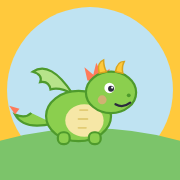
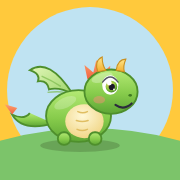
Illustrations façon film d'animation : lumière, dégradés, grands yeux
Claude-Session: https://claude.ai/code/session_014ppiBfhQJmdojky3Cr5pnc

Changed region(s): [[0.0278, 0.3056, 0.7778, 0.8611]]

diff --git a/index.html b/index.html
@@ -88,88 +88,145 @@ h1{font-family:var(--display);font-weight:700;font-size:clamp(2rem,6vw,3.2rem);l
 /* ---------- Dessins (formes simples, personnages originaux) ---------- */
 const C={herbe:'#7CC46A',herbe2:'#5BA552',pist:'#8BCF4E',pistF:'#4E9A2C',ventre:'#F6E7A6',sol:'#FFC93C',cor:'#FF7A59',enc:'#2B2A3D',blanc:'#fff'};
 
+function teinte(h,a){const n=parseInt(h.slice(1),16);let r=n>>16,g=n>>8&255,b=n&255;const t=a<0?0:255,p=Math.abs(a);r=Math.round(r+(t-r)*p);g=Math.round(g+(t-g)*p);b=Math.round(b+(t-b)*p);return '#'+((1<<24)+(r<<16)+(g<<8)+b).toString(16).slice(1);}
+function melange(h1,h2,t){const a=parseInt(h1.slice(1),16),b=parseInt(h2.slice(1),16);const f=s=>[(s>>16),(s>>8&255),(s&255)];const A=f(a),B=f(b);return '#'+A.map((v,i)=>Math.round(v+(B[i]-v)*t).toString(16).padStart(2,'0')).join('');}
+function oeil(cx,cy,r,{iris='gIris',cils=false}={}){
+  return `<ellipse cx="${cx}" cy="${cy}" rx="${r}" ry="${(r*1.2).toFixed(1)}" fill="#fff"/>
+  <circle cx="${(cx+r*.15).toFixed(1)}" cy="${(cy+r*.2).toFixed(1)}" r="${(r*.72).toFixed(1)}" fill="url(#${iris})"/>
+  <circle cx="${(cx+r*.18).toFixed(1)}" cy="${(cy+r*.24).toFixed(1)}" r="${(r*.38).toFixed(1)}" fill="#1B1626"/>
+  <circle cx="${(cx-r*.12).toFixed(1)}" cy="${(cy-r*.25).toFixed(1)}" r="${(r*.3).toFixed(1)}" fill="#fff"/>
+  <circle cx="${(cx+r*.45).toFixed(1)}" cy="${(cy+r*.55).toFixed(1)}" r="${(r*.13).toFixed(1)}" fill="#fff" opacity=".85"/>
+  <path d="M${(cx-r*.95).toFixed(1)} ${(cy-r*.35).toFixed(1)} Q${cx} ${(cy-r*1.62).toFixed(1)} ${(cx+r*.95).toFixed(1)} ${(cy-r*.35).toFixed(1)}" stroke="#2B2A3D" stroke-width="${(r*.16).toFixed(1)}" fill="none" stroke-linecap="round" opacity=".8"/>
+  ${cils?`<path d="M${cx+r*.9} ${cy-r*.75} l${r*.45} ${-r*.35} M${cx+r*.55} ${cy-r*1.05} l${r*.3} ${-r*.45}" stroke="#2B2A3D" stroke-width="${(r*.22).toFixed(1)}" stroke-linecap="round"/>`:''}`;
+}
+const oeilFerme=(cx,cy,r)=>`<path d="M${cx-r} ${cy} q${r} ${r*.9} ${2*r} 0" stroke="#2B2A3D" stroke-width="${(r*.3).toFixed(1)}" fill="none" stroke-linecap="round"/><path d="M${cx-r*.7} ${cy+r*.45} l-${r*.3} ${r*.35} M${cx} ${cy+r*.65} v${r*.4} M${cx+r*.7} ${cy+r*.45} l${r*.3} ${r*.35}" stroke="#2B2A3D" stroke-width="${(r*.2).toFixed(1)}" stroke-linecap="round"/>`;
+const ombreSol=(cx,cy,rx)=>`<ellipse cx="${cx}" cy="${cy}" rx="${rx}" ry="${(rx*.16).toFixed(1)}" fill="#1E2A10" opacity=".2"/>`;
 function dragon(x,y,s=1,{yeux='ouverts',flamme=false,ailes=true,hoquet=false}={}){
-  const oeil = yeux==='fermes'
-    ? `<path d="M30 -38 q6 5 12 0" stroke="${C.enc}" stroke-width="3" fill="none" stroke-linecap="round"/>`
-    : `<circle cx="36" cy="-38" r="7" fill="${C.blanc}"/><circle cx="38" cy="-37" r="4" fill="${C.enc}"/><circle cx="39.5" cy="-38.5" r="1.4" fill="${C.blanc}"/>`;
-  const feu = flamme ? `<g transform="translate(66,-22)"><path d="M0 0 q18 -14 34 -2 q-8 4 -2 8 q-16 8 -32 -6z" fill="${C.cor}"/><path d="M4 0 q10 -7 20 0 q-10 6 -20 0z" fill="${C.sol}"/></g>`:'';
-  const hic = hoquet ? `<g transform="translate(70,-30)"><circle r="4" fill="${C.sol}"/><circle cx="12" cy="-8" r="3" fill="${C.cor}"/><circle cx="6" cy="-18" r="2.5" fill="${C.sol}"/></g>`:'';
+  const o = yeux==='fermes' ? oeilFerme(37,-40,10) : oeil(37,-42,11,{iris:'gIrisD'});
+  const feu = flamme ? `<g transform="translate(70,-22)"><path d="M0 0 q20 -18 40 -4 q-8 5 -2 10 q-20 10 -38 -6z" fill="url(#gFeu)"/><path d="M4 0 q12 -8 22 0 q-12 6 -22 0z" fill="#FFF3B0"/><circle cx="30" cy="-2" r="16" fill="url(#gHalo)"/></g>`:'';
+  const hic = hoquet ? `<g transform="translate(72,-32)"><circle r="5" fill="url(#gHalo)"/><circle r="3.5" fill="#FFE27A"/><circle cx="12" cy="-9" r="3" fill="#FF8A5C"/><circle cx="6" cy="-20" r="2.5" fill="#FFE27A"/></g>`:'';
   return `<g class="touche dragon" data-son="dragon" transform="translate(${x},${y}) scale(${s})">
+    ${ombreSol(-4,40,54)}
     <g class="corps">
-    <path d="M-40 10 q-40 10 -52 -12 q14 6 22 -2" fill="${C.pist}" stroke="${C.pistF}" stroke-width="3"/>
-    <path d="M-92 -2 l-8 -12 l14 4z" fill="${C.cor}"/>
-    ${ailes?`<path d="M-14 -30 q-30 -46 -54 -30 q14 4 10 14 q12 -2 14 10 q12 -4 30 6z" fill="#B6E38A" stroke="${C.pistF}" stroke-width="3"/>`:''}
-    <ellipse cx="-6" cy="0" rx="44" ry="34" fill="${C.pist}" stroke="${C.pistF}" stroke-width="3"/>
-    <ellipse cx="2" cy="6" rx="26" ry="22" fill="${C.ventre}"/>
-    <path d="M-6 16 h10 M-6 4 h12 M-4 -8 h10" stroke="#E2CC74" stroke-width="2.5" stroke-linecap="round"/>
-    <rect x="-34" y="22" width="16" height="16" rx="7" fill="${C.pist}" stroke="${C.pistF}" stroke-width="3"/>
-    <rect x="8" y="22" width="16" height="16" rx="7" fill="${C.pist}" stroke="${C.pistF}" stroke-width="3"/>
-    <path d="M6 -48 l-4 -18 l12 10 l4 -16 l8 16 l10 -8 l-2 18z" fill="${C.cor}"/>
-    <ellipse cx="38" cy="-32" rx="34" ry="28" fill="${C.pist}" stroke="${C.pistF}" stroke-width="3"/>
-    <path d="M22 -58 q-4 -14 6 -18 q0 10 4 16z" fill="${C.sol}" stroke="#D9A41E" stroke-width="2"/>
-    <path d="M44 -60 q2 -14 12 -14 q-4 8 -2 16z" fill="${C.sol}" stroke="#D9A41E" stroke-width="2"/>
-    ${oeil}
-    <circle cx="62" cy="-28" r="2.6" fill="${C.pistF}"/>
-    <path d="M44 -16 q10 6 20 -2" stroke="${C.enc}" stroke-width="3" fill="none" stroke-linecap="round"/>
-    <circle cx="26" cy="-22" r="6" fill="#FF9F8A" opacity=".6"/>
+    <path d="M-40 10 q-42 12 -56 -12 q16 8 24 -2" fill="url(#gPist)" stroke="#4E8F2C" stroke-width="2.5"/>
+    <path d="M-96 -2 l-10 -14 l17 5z" fill="url(#gCrete)"/>
+    ${ailes?`<path d="M-14 -30 q-32 -50 -58 -32 q15 5 11 15 q13 -2 15 11 q13 -4 32 6z" fill="url(#gAile)" stroke="#4E8F2C" stroke-width="2.5"/><path d="M-30 -40 q-12 -8 -26 -14 M-24 -32 q-10 -2 -24 0" stroke="#7DBB4E" stroke-width="2" fill="none" opacity=".7"/>`:''}
+    <ellipse cx="-6" cy="0" rx="44" ry="35" fill="url(#gPist)" stroke="#4E8F2C" stroke-width="2.5"/>
+    <ellipse cx="2" cy="7" rx="26" ry="23" fill="url(#gVentre)"/>
+    <path d="M-8 18 q7 3 14 0 M-9 6 q8 3 16 0 M-7 -6 q7 3 13 0" stroke="#E0BE62" stroke-width="2" fill="none" stroke-linecap="round"/>
+    <ellipse cx="-24" cy="-18" rx="16" ry="7" fill="#fff" opacity=".22" transform="rotate(-25 -24 -18)"/>
+    <rect x="-34" y="22" width="17" height="17" rx="8" fill="url(#gPist)" stroke="#4E8F2C" stroke-width="2.5"/>
+    <rect x="8" y="22" width="17" height="17" rx="8" fill="url(#gPist)" stroke="#4E8F2C" stroke-width="2.5"/>
+    <path d="M6 -50 l-4 -19 l12 10 l4 -17 l9 17 l10 -9 l-2 19z" fill="url(#gCrete)"/>
+    <ellipse cx="38" cy="-33" rx="36" ry="30" fill="url(#gPist)" stroke="#4E8F2C" stroke-width="2.5"/>
+    <ellipse cx="26" cy="-52" rx="15" ry="6" fill="#fff" opacity=".28" transform="rotate(-18 26 -52)"/>
+    <path d="M20 -60 q-5 -15 6 -20 q0 11 5 18z" fill="url(#gCorne)" stroke="#C99021" stroke-width="1.5"/>
+    <path d="M45 -62 q2 -15 13 -15 q-4 9 -2 17z" fill="url(#gCorne)" stroke="#C99021" stroke-width="1.5"/>
+    ${o}
+    <ellipse cx="64" cy="-28" rx="2.4" ry="1.8" fill="#3F7A22"/>
+    <path d="M44 -15 q11 8 22 -2" stroke="#2B2A3D" stroke-width="2.8" fill="none" stroke-linecap="round"/>
+    <ellipse cx="22" cy="-22" rx="8" ry="5" fill="#FF8C7A" opacity=".45"/>
     </g>${feu}${hic}</g>`;
 }
 function chienne(x,y,s=1,{casque=false}={}){
   return `<g class="touche" data-son="ouaf" transform="translate(${x},${y}) scale(${s})">
-    <path d="M-30 4 q-18 -10 -20 -24" stroke="#C98A4B" stroke-width="7" fill="none" stroke-linecap="round"/>
-    <ellipse cx="0" cy="8" rx="34" ry="24" fill="#E6A866" stroke="#B87638" stroke-width="3"/>
-    <rect x="-24" y="20" width="12" height="18" rx="6" fill="#E6A866" stroke="#B87638" stroke-width="3"/>
-    <rect x="12" y="20" width="12" height="18" rx="6" fill="#E6A866" stroke="#B87638" stroke-width="3"/>
-    <circle cx="24" cy="-22" r="26" fill="#E6A866" stroke="#B87638" stroke-width="3"/>
-    <ellipse cx="38" cy="-14" rx="14" ry="10" fill="#FBE3C4"/>
-    <ellipse cx="48" cy="-18" rx="5" ry="4" fill="${C.enc}"/>
-    <path d="M4 -40 q-16 0 -12 26 q10 -4 14 -18z" fill="#9C5E2C"/>
-    <path d="M36 -44 q14 -8 18 6 q-8 2 -14 4z" fill="#9C5E2C"/>
-    <circle cx="28" cy="-28" r="4" fill="${C.enc}"/><circle cx="29.5" cy="-29.5" r="1.3" fill="#fff"/>
-    <path d="M38 -6 q4 8 10 2" stroke="${C.enc}" stroke-width="2.5" fill="none" stroke-linecap="round"/>
+    ${ombreSol(2,40,40)}
+    <path d="M-30 4 q-20 -10 -21 -26" stroke="url(#gChien)" stroke-width="8" fill="none" stroke-linecap="round"/>
+    <ellipse cx="0" cy="8" rx="34" ry="24" fill="url(#gChien)" stroke="#A9682F" stroke-width="2.5"/>
+    <ellipse cx="4" cy="14" rx="18" ry="12" fill="#FCE6C8" opacity=".9"/>
+    <rect x="-24" y="20" width="12" height="19" rx="6" fill="url(#gChien)" stroke="#A9682F" stroke-width="2.5"/>
+    <rect x="12" y="20" width="12" height="19" rx="6" fill="url(#gChien)" stroke="#A9682F" stroke-width="2.5"/>
+    <circle cx="24" cy="-22" r="27" fill="url(#gChien)" stroke="#A9682F" stroke-width="2.5"/>
+    <ellipse cx="14" cy="-38" rx="11" ry="5" fill="#fff" opacity=".25" transform="rotate(-20 14 -38)"/>
+    <ellipse cx="39" cy="-13" rx="15" ry="11" fill="#FCE6C8"/>
+    <ellipse cx="50" cy="-19" rx="5.5" ry="4.2" fill="#2B2A3D"/><ellipse cx="48.5" cy="-20.5" rx="1.8" ry="1.1" fill="#fff" opacity=".7"/>
+    <path d="M3 -42 q-18 0 -14 30 q11 -5 16 -20z" fill="#8A4F22"/>
+    <path d="M36 -46 q15 -9 20 7 q-9 2 -15 4z" fill="#8A4F22"/>
+    ${oeil(28,-29,6.5)}
+    <path d="M38 -5 q5 9 12 2" stroke="#2B2A3D" stroke-width="2.4" fill="none" stroke-linecap="round"/>
+    <path d="M42 -3 q2 6 5 1z" fill="#FF7A8A"/>
+    <ellipse cx="22" cy="-12" rx="6" ry="4" fill="#FF8C7A" opacity=".35"/>
     <path d="M12 -2 q12 6 24 0" stroke="#3E7BD6" stroke-width="6" fill="none" stroke-linecap="round"/>
-    <circle cx="24" cy="4" r="5" fill="${C.sol}" stroke="#D9A41E" stroke-width="2"/>
-    ${casque?`<path d="M2 -40 q20 -28 46 -6 z" fill="${C.cor}" stroke="#C9553A" stroke-width="2"/>`:''}
+    <circle cx="24" cy="4" r="5" fill="url(#gCorne)" stroke="#C99021" stroke-width="1.5"/>
+    ${casque?`<path d="M2 -42 q20 -30 48 -6 z" fill="url(#gFeu)" stroke="#C9553A" stroke-width="2"/><ellipse cx="22" cy="-52" rx="8" ry="3" fill="#fff" opacity=".4"/>`:''}
   </g>`;
 }
 function chaton(x,y,s=1){
   return `<g class="touche" data-son="miaou" transform="translate(${x},${y}) scale(${s})">
-    <path d="M14 6 q14 -4 12 -18" stroke="#9AA0AE" stroke-width="5" fill="none" stroke-linecap="round"/>
-    <ellipse cx="0" cy="8" rx="16" ry="12" fill="#C7CCD6" stroke="#8C92A1" stroke-width="2"/>
-    <circle cx="-6" cy="-10" r="13" fill="#C7CCD6" stroke="#8C92A1" stroke-width="2"/>
-    <path d="M-17 -16 l2 -12 l8 7z M5 -16 l-2 -12 l-8 7z" fill="#C7CCD6" stroke="#8C92A1" stroke-width="2"/>
-    <circle cx="-11" cy="-11" r="2.2" fill="${C.enc}"/><circle cx="-1" cy="-11" r="2.2" fill="${C.enc}"/>
-    <path d="M-8 -5 q2 2 4 0" stroke="${C.enc}" stroke-width="1.6" fill="none"/>
+    ${ombreSol(0,20,18)}
+    <path d="M14 6 q15 -4 13 -19" stroke="url(#gChat)" stroke-width="5" fill="none" stroke-linecap="round"/>
+    <ellipse cx="0" cy="8" rx="16" ry="12" fill="url(#gChat)" stroke="#8C92A1" stroke-width="1.5"/>
+    <path d="M-17 -16 l2 -13 l9 8z M5 -16 l-2 -13 l-9 8z" fill="url(#gChat)" stroke="#8C92A1" stroke-width="1.5"/>
+    <path d="M-14 -18 l1 -6 l4 4z M3 -18 l-1 -6 l-4 4z" fill="#FFB3C1"/>
+    <circle cx="-6" cy="-10" r="14" fill="url(#gChat)" stroke="#8C92A1" stroke-width="1.5"/>
+    ${oeil(-11,-11,3.6,{iris:'gIrisC'})}${oeil(-1,-11,3.6,{iris:'gIrisC'})}
+    <path d="M-7.5 -4.5 l1.5 1.2 l1.5 -1.2z" fill="#FF8FA3"/>
+    <path d="M-9 -2 q3 3 6 0" stroke="#2B2A3D" stroke-width="1.3" fill="none"/>
   </g>`;
 }
-const fond=(ciel='#BFE3F2',sol=C.herbe)=>`<rect width="640" height="400" fill="${ciel}"/>
-  <path d="M0 300 q160 -60 320 -10 t320 -20 V400 H0z" fill="${C.herbe2}"/>
-  <path d="M0 330 q200 -40 400 0 t240 -10 V400 H0z" fill="${sol}"/>`;
-const soleil=(x=560,y=70)=>`<g class="touche" data-son="ding"><circle cx="${x}" cy="${y}" r="36" fill="${C.sol}"/><circle cx="${x}" cy="${y}" r="48" fill="${C.sol}" opacity=".25"/></g>`;
-const lune=(x=540,y=70)=>`<circle cx="${x}" cy="${y}" r="32" fill="#FFF3C4"/><circle cx="${x+14}" cy="${y-8}" r="28" fill="#26305C"/>`;
-const etoiles=()=>[[60,50],[140,90],[230,40],[330,80],[420,30],[470,110],[90,140],[280,130],[600,150]].map(([x,y],i)=>`<circle class="etoile" style="animation-delay:${i*.3}s" cx="${x}" cy="${y}" r="${2.5+i%3}" fill="#FFF3C4"/>`).join('');
-const nuage=(x,y,s=1)=>`<g class="flotte" transform="translate(${x},${y}) scale(${s})"><g><ellipse cx="0" cy="0" rx="40" ry="18" fill="#fff"/><ellipse cx="-22" cy="-8" rx="20" ry="16" fill="#fff"/><ellipse cx="18" cy="-12" rx="22" ry="18" fill="#fff"/></g></g>`;
-const arbre=(x,y,s=1)=>`<g transform="translate(${x},${y}) scale(${s})"><rect x="-14" y="-10" width="28" height="140" rx="10" fill="#9C6A3C"/><path d="M8 20 l40 -30" stroke="#9C6A3C" stroke-width="12" stroke-linecap="round"/><circle cx="0" cy="-60" r="70" fill="#5BA552"/><circle cx="-50" cy="-20" r="44" fill="#6DB85C"/><circle cx="50" cy="-30" r="48" fill="#6DB85C"/><circle cx="-20" cy="-80" r="10" fill="${C.cor}"/><circle cx="34" cy="-70" r="10" fill="${C.cor}"/></g>`;
+const fond=(ciel='#BFE3F2',sol=C.herbe)=>{
+  const k=(ciel+sol).replace(/#/g,''); const nuit=parseInt(ciel.slice(1,3),16)<80;
+  const loin=melange(sol,ciel,.55), milieu=teinte(C.herbe2,nuit?-.35:0);
+  const fleurs=nuit?'':[[40,372,'#FF8FAF'],[95,388,'#FFE27A'],[160,366,'#fff'],[250,392,'#FF8FAF'],[330,370,'#FFE27A'],[420,390,'#fff'],[505,374,'#FF8FAF'],[590,386,'#FFE27A']].map(([fx,fy,c])=>`<g transform="translate(${fx},${fy})"><circle r="3.2" cx="-3" fill="${c}"/><circle r="3.2" cx="3" fill="${c}"/><circle r="3.2" cy="-3" fill="${c}"/><circle r="3.2" cy="3" fill="${c}"/><circle r="2.2" fill="#FFC93C"/></g>`).join('');
+  const herbes=[20,70,130,190,240,300,360,410,470,530,580,620].map((hx,i)=>`<path d="M${hx} ${380+i%3*6} q2 -12 6 -16 M${hx+5} ${382+i%3*6} q1 -9 -3 -13" stroke="${teinte(sol,-.25)}" stroke-width="2" fill="none" stroke-linecap="round" opacity=".7"/>`).join('');
+  return `<defs><linearGradient id="ciel${k}" x1="0" y1="0" x2="0" y2="1"><stop offset="0" stop-color="${melange(ciel,nuit?'#0E1230':'#4A9BE0',.4)}"/><stop offset=".55" stop-color="${ciel}"/><stop offset=".85" stop-color="${melange(ciel,nuit?'#6A5A9A':'#FFF1D2',.55)}"/></linearGradient>
+  <linearGradient id="sol${k}" x1="0" y1="0" x2="0" y2="1"><stop offset="0" stop-color="${teinte(sol,.15)}"/><stop offset="1" stop-color="${teinte(sol,-.22)}"/></linearGradient></defs>
+  <rect width="640" height="400" fill="url(#ciel${k})"/>
+  <path d="M0 265 q90 -45 200 -20 q120 -60 240 -10 q110 -30 200 5 V400 H0z" fill="${loin}" opacity=".85"/>
+  <path d="M0 300 q160 -62 320 -10 t320 -20 V400 H0z" fill="${milieu}"/>
+  <path d="M0 300 q160 -62 320 -10 t320 -20" stroke="#fff" stroke-opacity=".18" stroke-width="3" fill="none"/>
+  <path d="M0 330 q200 -42 400 0 t240 -10 V400 H0z" fill="url(#sol${k})"/>
+  ${fleurs}`;
+};
+const soleil=(x=560,y=70)=>`<g class="touche" data-son="ding"><circle cx="${x}" cy="${y}" r="120" fill="url(#gHalo)" opacity=".7"/><g opacity=".12">${[0,45,90,135,180,225,270,315].map(a=>`<path d="M${x} ${y} l${(Math.cos(a*Math.PI/180)*70).toFixed(0)} ${(Math.sin(a*Math.PI/180)*70).toFixed(0)}" stroke="#FFF3B0" stroke-width="10" stroke-linecap="round"/>`).join('')}</g><circle cx="${x}" cy="${y}" r="36" fill="url(#gSoleil)"/></g>`;
+const couchant=(x)=>`<circle cx="${x}" cy="215" r="130" fill="url(#gHalo)"/><circle cx="${x}" cy="222" r="44" fill="url(#gSoleil)"/><path d="M0 265 q90 -45 200 -20 q120 -60 240 -10 q110 -30 200 5 V400 H0z" fill="#E9B98A" opacity=".9"/><path d="M0 300 q160 -62 320 -10 t320 -20 V400 H0z" fill="#6FA552"/><path d="M0 330 q200 -42 400 0 t240 -10 V400 H0z" fill="#7CC46A"/>`;
+const lune=(x=540,y=70)=>`<circle cx="${x}" cy="${y}" r="90" fill="url(#gHaloLune)"/><mask id="mlune${x}${y}"><circle cx="${x}" cy="${y}" r="32" fill="#fff"/><circle cx="${x+14}" cy="${y-8}" r="28" fill="#000"/></mask><circle cx="${x}" cy="${y}" r="32" fill="#FFF3C4" mask="url(#mlune${x}${y})"/>`;
+const etoiles=()=>[[60,50],[140,90],[230,40],[330,80],[420,30],[470,110],[90,140],[280,130],[600,150],[180,20],[380,150],[30,110]].map(([x,y],i)=>`<g class="etoile" style="animation-delay:${i*.3}s"><circle cx="${x}" cy="${y}" r="${7+i%3*2}" fill="url(#gHaloLune)"/><path d="M${x} ${y-5-i%3} L${x+1.3} ${y-1.3} L${x+5+i%3} ${y} L${x+1.3} ${y+1.3} L${x} ${y+5+i%3} L${x-1.3} ${y+1.3} L${x-5-i%3} ${y} L${x-1.3} ${y-1.3}z" fill="#FFF6D2"/></g>`).join('');
+const nuage=(x,y,s=1)=>`<g class="flotte" transform="translate(${x},${y}) scale(${s})"><g fill="url(#gNuage)"><ellipse cx="0" cy="2" rx="44" ry="18"/><ellipse cx="-24" cy="-8" rx="22" ry="17"/><ellipse cx="18" cy="-14" rx="25" ry="21"/><ellipse cx="38" cy="-2" rx="16" ry="12"/></g><ellipse cx="10" cy="-24" rx="12" ry="5" fill="#fff" opacity=".8"/></g>`;
+const arbre=(x,y,s=1)=>`<g transform="translate(${x},${y}) scale(${s})">${ombreSol(0,132,80)}<path d="M-14 130 q-4 -70 2 -140 h24 q6 70 2 140z" fill="url(#gTronc)"/><path d="M8 20 l40 -30" stroke="#8A5A30" stroke-width="12" stroke-linecap="round"/><circle cx="-50" cy="-20" r="46" fill="url(#gFeuille)"/><circle cx="50" cy="-30" r="50" fill="url(#gFeuille)"/><circle cx="0" cy="-62" r="72" fill="url(#gFeuille)"/><ellipse cx="-24" cy="-100" rx="30" ry="14" fill="#fff" opacity=".16"/>${[[-20,-80],[34,-70],[-56,-30],[60,-10],[10,-30]].map(([a,b])=>`<circle cx="${a}" cy="${b}" r="9" fill="url(#gFeu)"/><circle cx="${a-3}" cy="${b-3}" r="2.5" fill="#fff" opacity=".7"/>`).join('')}</g>`;
 const gateau=(x,y,bougies=false)=>`<g transform="translate(${x},${y})"><rect x="-50" y="-30" width="100" height="44" rx="10" fill="#F7B6C8" stroke="#D87F9A" stroke-width="3"/><path d="M-50 -18 q12 10 25 0 t25 0 t25 0 t25 0" stroke="#fff" stroke-width="6" fill="none"/><rect x="-60" y="12" width="120" height="10" rx="5" fill="#fff"/>${[-24,0,24].map(b=>`<rect x="${b-3}" y="-52" width="6" height="22" rx="2" fill="#7FB8F0"/>${bougies?`<path d="M${b} -66 q8 8 0 14 q-8 -6 0 -14z" fill="${C.sol}"/>`:''}`).join('')}</g>`;
 const flaque=(x,y)=>`<ellipse cx="${x}" cy="${y}" rx="60" ry="14" fill="#7FB8F0" opacity=".8"/>`;
 const bulles=(x,y)=>[0,1,2,3].map(i=>`<circle class="bulle" style="animation-delay:${i*.25}s" cx="${x+i*14-20}" cy="${y-i*6}" r="${6+i*2}" fill="#fff" opacity=".85" stroke="#9fd3ee" stroke-width="2"/>`).join('');
 const lit=(x,y)=>`<g transform="translate(${x},${y})"><rect x="-120" y="-10" width="240" height="60" rx="16" fill="#8E7CC3"/><rect x="-130" y="-60" width="26" height="110" rx="10" fill="#6B5AA5"/><rect x="104" y="-30" width="26" height="80" rx="10" fill="#6B5AA5"/><ellipse cx="-80" cy="-14" rx="30" ry="16" fill="#fff"/></g>`;
 const couverture=(x,y)=>`<path transform="translate(${x},${y})" d="M-100 -30 q100 -30 210 0 v40 h-210z" fill="${C.sol}"/><g transform="translate(${x},${y})">${[-70,-30,10,50,90].map(c=>`<circle cx="${c}" cy="-6" r="6" fill="${C.cor}"/>`).join('')}</g>`;
-const svg=inner=>`<svg viewBox="0 0 640 400" xmlns="http://www.w3.org/2000/svg" role="img">${inner}</svg>`;
+const DEFS=`<defs>
+<linearGradient id="gPist" x1="0" y1="0" x2="0" y2="1"><stop offset="0" stop-color="#B4EA74"/><stop offset=".55" stop-color="#86CB4B"/><stop offset="1" stop-color="#5DA535"/></linearGradient>
+<linearGradient id="gAile" x1="0" y1="0" x2="1" y2="1"><stop offset="0" stop-color="#E2F7B8"/><stop offset="1" stop-color="#9DD46A"/></linearGradient>
+<linearGradient id="gCrete" x1="0" y1="0" x2="0" y2="1"><stop offset="0" stop-color="#FFA36E"/><stop offset="1" stop-color="#F0603F"/></linearGradient>
+<linearGradient id="gCorne" x1="0" y1="0" x2="0" y2="1"><stop offset="0" stop-color="#FFE68A"/><stop offset="1" stop-color="#F2AE2E"/></linearGradient>
+<radialGradient id="gVentre" cx=".45" cy=".35" r=".7"><stop offset="0" stop-color="#FFF8D6"/><stop offset="1" stop-color="#F0D483"/></radialGradient>
+<radialGradient id="gChien" cx=".4" cy=".3" r=".8"><stop offset="0" stop-color="#F9CB92"/><stop offset="1" stop-color="#CF8443"/></radialGradient>
+<radialGradient id="gChat" cx=".4" cy=".3" r=".8"><stop offset="0" stop-color="#EEF1F6"/><stop offset="1" stop-color="#A7AEBD"/></radialGradient>
+<radialGradient id="gPeau" cx=".4" cy=".35" r=".75"><stop offset="0" stop-color="#FBDCC0"/><stop offset="1" stop-color="#E3A87F"/></radialGradient>
+<radialGradient id="gIris" cx=".4" cy=".35" r=".7"><stop offset="0" stop-color="#B07A4C"/><stop offset="1" stop-color="#4A2A14"/></radialGradient>
+<radialGradient id="gIrisD" cx=".4" cy=".35" r=".7"><stop offset="0" stop-color="#FFD966"/><stop offset=".6" stop-color="#8CC63F"/><stop offset="1" stop-color="#3C7A1E"/></radialGradient>
+<radialGradient id="gIrisC" cx=".4" cy=".35" r=".7"><stop offset="0" stop-color="#C6F08A"/><stop offset="1" stop-color="#4F9A3A"/></radialGradient>
+<radialGradient id="gFeu" cx=".4" cy=".35" r=".75"><stop offset="0" stop-color="#FFC27A"/><stop offset="1" stop-color="#EA5A3B"/></radialGradient>
+<radialGradient id="gHalo"><stop offset="0" stop-color="#FFF4B8" stop-opacity=".9"/><stop offset="1" stop-color="#FFE27A" stop-opacity="0"/></radialGradient>
+<radialGradient id="gHaloLune"><stop offset="0" stop-color="#FFF6D2" stop-opacity=".55"/><stop offset="1" stop-color="#FFF6D2" stop-opacity="0"/></radialGradient>
+<radialGradient id="gSoleil" cx=".4" cy=".4" r=".7"><stop offset="0" stop-color="#FFF6C4"/><stop offset=".6" stop-color="#FFD54A"/><stop offset="1" stop-color="#FFB72E"/></radialGradient>
+<linearGradient id="gNuage" x1="0" y1="0" x2="0" y2="1"><stop offset="0" stop-color="#FFFFFF"/><stop offset="1" stop-color="#DCE9F5"/></linearGradient>
+<radialGradient id="gFeuille" cx=".35" cy=".3" r=".8"><stop offset="0" stop-color="#9BDB74"/><stop offset=".6" stop-color="#5FAE4E"/><stop offset="1" stop-color="#3B7E3B"/></radialGradient>
+<linearGradient id="gTronc" x1="0" y1="0" x2="1" y2="0"><stop offset="0" stop-color="#A9743F"/><stop offset="1" stop-color="#6E4524"/></linearGradient>
+<radialGradient id="gVignette" cx=".5" cy=".45" r=".75"><stop offset=".6" stop-color="#1B1530" stop-opacity="0"/><stop offset="1" stop-color="#1B1530" stop-opacity=".16"/></radialGradient>
+<radialGradient id="gLumiere" cx=".85" cy=".1" r=".9"><stop offset="0" stop-color="#FFF1C9" stop-opacity=".35"/><stop offset="1" stop-color="#FFF1C9" stop-opacity="0"/></radialGradient>
+</defs>`;
+const svg=inner=>`<svg viewBox="0 0 640 400" xmlns="http://www.w3.org/2000/svg" role="img">${DEFS}${inner}<rect width="640" height="400" fill="url(#gLumiere)" pointer-events="none"/><rect width="640" height="400" fill="url(#gVignette)" pointer-events="none"/></svg>`;
 
 function garcon(x,y,s=1,{cartable=false,bras=false,content=true}={}){
   return `<g class="touche" data-son="ding" transform="translate(${x},${y}) scale(${s})">
+    ${ombreSol(0,40,26)}
     ${cartable?`<rect x="-30" y="-46" width="24" height="34" rx="7" fill="${C.cor}" stroke="#C9553A" stroke-width="2.5"/>`:''}
-    <rect x="-14" y="10" width="11" height="26" rx="5" fill="#F2C9A0"/><rect x="3" y="10" width="11" height="26" rx="5" fill="#F2C9A0"/>
+    <rect x="-14" y="10" width="11" height="26" rx="5" fill="url(#gPeau)"/><rect x="3" y="10" width="11" height="26" rx="5" fill="url(#gPeau)"/>
     <ellipse cx="-8" cy="37" rx="10" ry="5" fill="#3E7BD6"/><ellipse cx="9" cy="37" rx="10" ry="5" fill="#3E7BD6"/>
     <rect x="-18" y="2" width="36" height="16" rx="6" fill="#4C5BA8"/>
     <path d="M-20 -32 q20 -10 40 0 l2 38 h-44z" fill="${C.sol}" stroke="#D9A41E" stroke-width="2.5"/>
     ${bras?`<path d="M18 -26 q18 -12 22 -32" stroke="#F2C9A0" stroke-width="9" fill="none" stroke-linecap="round"/><path d="M-18 -26 q-12 10 -10 26" stroke="#F2C9A0" stroke-width="9" fill="none" stroke-linecap="round"/>`
           :`<path d="M18 -26 q8 12 6 26" stroke="#F2C9A0" stroke-width="9" fill="none" stroke-linecap="round"/><path d="M-18 -26 q-8 12 -6 26" stroke="#F2C9A0" stroke-width="9" fill="none" stroke-linecap="round"/>`}
     ${cartable?`<path d="M-14 -32 l4 30 M12 -32 l-4 30" stroke="#C9553A" stroke-width="4"/>`:''}
-    <circle cx="0" cy="-56" r="26" fill="#F2C9A0"/>
+    <circle cx="0" cy="-56" r="26" fill="url(#gPeau)"/>
     <path d="M-27 -58 q0 -30 28 -28 q26 0 26 24 q-8 -10 -18 -12 q-4 8 -14 6 q-10 2 -22 10z" fill="#6B4226"/>
-    <circle cx="-9" cy="-54" r="3.2" fill="${C.enc}"/><circle cx="9" cy="-54" r="3.2" fill="${C.enc}"/>
+    ${oeil(-9,-54,5.4)}${oeil(9,-54,5.4)}
     <circle cx="-15" cy="-45" r="5" fill="#FF9F8A" opacity=".5"/><circle cx="15" cy="-45" r="5" fill="#FF9F8A" opacity=".5"/>
     ${content?`<path d="M-8 -42 q8 8 16 0" stroke="${C.enc}" stroke-width="2.8" fill="none" stroke-linecap="round"/>`:`<path d="M-6 -40 q6 -4 12 0" stroke="${C.enc}" stroke-width="2.8" fill="none" stroke-linecap="round"/>`}
   </g>`;
@@ -181,34 +238,36 @@ const ballon=(x,y)=>`<g class="touche" data-son="ding" transform="translate(${x}
 
 function fille(x,y,s=1,{bras=false,fraise=false}={}){
   return `<g class="touche" data-son="ding" transform="translate(${x},${y}) scale(${s})">
+    ${ombreSol(0,45,24)}
     <path d="M-30 -66 q-14 10 -6 30 q6 -10 10 -20z M30 -66 q14 10 6 30 q-6 -10 -10 -20z" fill="#4A2E1C"/>
-    <rect x="-12" y="14" width="10" height="26" rx="5" fill="#E8B48A"/><rect x="2" y="14" width="10" height="26" rx="5" fill="#E8B48A"/>
+    <rect x="-12" y="14" width="10" height="26" rx="5" fill="url(#gPeau)"/><rect x="2" y="14" width="10" height="26" rx="5" fill="url(#gPeau)"/>
     <ellipse cx="-7" cy="41" rx="9" ry="5" fill="#8E7CC3"/><ellipse cx="8" cy="41" rx="9" ry="5" fill="#8E7CC3"/>
     <path d="M-16 -36 q16 -8 32 0 l12 52 h-56z" fill="#FF8FAF" stroke="#D96A8C" stroke-width="2.5"/>
     ${bras?`<path d="M16 -30 q18 -10 22 -30" stroke="#E8B48A" stroke-width="8" fill="none" stroke-linecap="round"/>`:`<path d="M16 -30 q10 14 8 30" stroke="#E8B48A" stroke-width="8" fill="none" stroke-linecap="round"/>`}
     <path d="M-16 -30 q-10 14 -8 30" stroke="#E8B48A" stroke-width="8" fill="none" stroke-linecap="round"/>
     ${fraise?`<g transform="translate(26,-62)"><path d="M0 0 q-10 0 -8 10 q4 12 8 14 q4 -2 8 -14 q2 -10 -8 -10z" fill="#E8394A"/><path d="M-5 -1 l5 -5 l5 5z" fill="#4E9A2C"/></g>`:''}
-    <circle cx="0" cy="-60" r="25" fill="#E8B48A"/>
+    <circle cx="0" cy="-60" r="25" fill="url(#gPeau)"/>
     <path d="M-26 -60 q-2 -32 26 -30 q28 -2 26 30 q-6 -16 -26 -18 q-20 2 -26 18z" fill="#4A2E1C"/>
     <circle cx="20" cy="-80" r="5" fill="${C.sol}"/>
-    <circle cx="-8" cy="-58" r="3" fill="${C.enc}"/><circle cx="8" cy="-58" r="3" fill="${C.enc}"/>
+    ${oeil(-8,-58,5.2,{cils:true})}${oeil(8,-58,5.2,{cils:true})}
     <circle cx="-14" cy="-49" r="4.5" fill="#FF9F8A" opacity=".5"/><circle cx="14" cy="-49" r="4.5" fill="#FF9F8A" opacity=".5"/>
     <path d="M-7 -46 q7 7 14 0" stroke="${C.enc}" stroke-width="2.6" fill="none" stroke-linecap="round"/>
   </g>`;
 }
 function tata(x,y,s=1,{carnet=false,bras=false}={}){
   return `<g class="touche" data-son="ding" transform="translate(${x},${y}) scale(${s})">
+    ${ombreSol(0,64,28)}
     <path d="M-34 -120 q-8 50 4 78 h60 q12 -28 4 -78z" fill="#7A4A2A"/>
     <rect x="-14" y="10" width="11" height="50" rx="5" fill="#2F3E6B"/><rect x="3" y="10" width="11" height="50" rx="5" fill="#2F3E6B"/>
     <ellipse cx="-9" cy="61" rx="11" ry="5" fill="${C.enc}"/><ellipse cx="10" cy="61" rx="11" ry="5" fill="${C.enc}"/>
     <path d="M-22 -66 q22 -10 44 0 l4 80 h-52z" fill="#3FB3A5" stroke="#2C8A7F" stroke-width="2.5"/>
     ${bras?`<path d="M22 -60 q22 -12 26 -36" stroke="#F0C3A0" stroke-width="9" fill="none" stroke-linecap="round"/>`:`<path d="M22 -60 q14 20 6 44" stroke="#F0C3A0" stroke-width="9" fill="none" stroke-linecap="round"/>`}
     <path d="M-22 -60 q-14 20 -6 44" stroke="#F0C3A0" stroke-width="9" fill="none" stroke-linecap="round"/>
-    ${carnet?`<g transform="translate(-6,-34) rotate(-8)"><rect x="-30" y="-22" width="60" height="44" rx="3" fill="#fff" stroke="#9AA0AE" stroke-width="2"/><path d="M-18 6 q10 -16 22 -4 q8 -10 14 0" stroke="${C.pist}" stroke-width="5" fill="none" stroke-linecap="round"/><circle cx="12" cy="-8" r="3" fill="${C.enc}"/></g>`:''}
-    <rect x="-7" y="-80" width="14" height="14" fill="#F0C3A0"/>
-    <circle cx="0" cy="-100" r="26" fill="#F0C3A0"/>
+    ${carnet?`<g transform="translate(-6,-34) rotate(-8)"><rect x="-30" y="-22" width="60" height="44" rx="3" fill="#fff" stroke="#9AA0AE" stroke-width="2"/><path d="M-18 6 q10 -16 22 -4 q8 -10 14 0" stroke="${C.pist}" stroke-width="5" fill="none" stroke-linecap="round"/>${oeil(12,-8,4.6,{cils:true})}</g>`:''}
+    <rect x="-7" y="-80" width="14" height="14" fill="url(#gPeau)"/>
+    <circle cx="0" cy="-100" r="26" fill="url(#gPeau)"/>
     <path d="M-28 -100 q-2 -34 28 -32 q30 -2 28 32 q-10 -20 -30 -22 q-14 6 -26 22z" fill="#7A4A2A"/>
-    <circle cx="-9" cy="-98" r="3" fill="${C.enc}"/><circle cx="9" cy="-98" r="3" fill="${C.enc}"/>
+    ${oeil(-9,-98,5,{cils:true})}${oeil(9,-98,5,{cils:true})}
     <circle cx="-15" cy="-89" r="5" fill="#FF9F8A" opacity=".45"/><circle cx="15" cy="-89" r="5" fill="#FF9F8A" opacity=".45"/>
     <path d="M-8 -86 q8 8 16 0" stroke="${C.enc}" stroke-width="2.8" fill="none" stroke-linecap="round"/>
   </g>`;
@@ -232,7 +291,7 @@ const HISTOIRES=[
    ['En classe, Noa dessine un grand dragon vert avec des crayons de toutes les couleurs.',()=>classe()+garcon(320,300,1.4)+table(320,310)],
    ['À la récréation, Noa joue au ballon avec ses nouveaux copains. Qu’il est content !',()=>fond()+soleil()+nuage(400,80)+garcon(220,290,1.4,{bras:true})+ballon(340,210)+chienne(470,300,1.1)],
    ['Le soir, Pistache et Biscotte viennent le chercher. Noa court vers eux en souriant.',()=>fond()+soleil(90,70)+ecole(480,300)+dragon(140,300,1)+garcon(300,300,1.3,{cartable:true,bras:true})+chienne(380,320,.8)],
-   ['Noa fait un gros câlin à Pistache. « Demain, je retourne à l’école ! »',()=>fond('#FFD9A8')+`<circle cx="560" cy="250" r="44" fill="#FF9F5A"/>`+maison(500,310)+dragon(180,290,1.2,{yeux:'fermes'})+garcon(300,300,1.3,{bras:true})],
+   ['Noa fait un gros câlin à Pistache. « Demain, je retourne à l’école ! »',()=>fond('#FFD9A8')+couchant(560)+maison(500,310)+dragon(180,290,1.2,{yeux:'fermes'})+garcon(300,300,1.3,{bras:true})],
   ]},
  {id:'lia',titre:'La journée chez tata Estelle',sous:'Avec Lia, la grande cousine',
   couverture:()=>svg(fond()+soleil()+piquenique(440,350)+tata(150,285,1.05,{carnet:true})+fille(260,295,1)+garcon(350,300,.95)),
@@ -246,7 +305,7 @@ const HISTOIRES=[
    ['Tata Estelle dessine un petit dragon tout vert… et là, surprise ! Pistache arrive pour de vrai !',()=>fond()+soleil(90,70)+`<g class="flotte">${dragon(440,170,1)}</g>`+tata(140,290,1.1,{carnet:true})+garcon(260,300,1.1,{bras:true})+fille(350,295,1.05,{bras:true})],
    ['Pistache a très faim. Lia lui donne une fraise. Miam ! Il en redemande !',()=>fond()+soleil()+piquenique(450,350)+dragon(200,290,1.2)+fille(370,290,1.2,{bras:true,fraise:true})],
    ['Puis tout le monde joue à cache-cache. Lia compte jusqu’à dix, et Noa se cache derrière Pistache. Chut !',()=>fond()+soleil(90,70)+arbre(500,250,.9)+fille(510,300,1)+garcon(230,300,1)+dragon(260,295,1.2)],
-   ['Le soleil se couche. Lia s’endort sur l’épaule de tata Estelle. C’est l’heure de rentrer.',()=>fond('#FFD9A8')+`<circle cx="540" cy="260" r="46" fill="#FF9F5A"/>`+tata(250,285,1.2)+fille(310,300,1,{})+garcon(380,305,.95)+dragon(110,300,.8,{yeux:'fermes'})],
+   ['Le soleil se couche. Lia s’endort sur l’épaule de tata Estelle. C’est l’heure de rentrer.',()=>fond('#FFD9A8')+couchant(540)+tata(250,285,1.2)+fille(310,300,1,{})+garcon(380,305,.95)+dragon(110,300,.8,{yeux:'fermes'})],
    ['Noa fait un gros bisou à Lia et à tata Estelle. « Merci pour cette belle journée ! »',()=>fond('#FFD9A8')+maison(520,310)+tata(160,285,1.1,{bras:true})+garcon(280,300,1.1,{bras:true})+fille(370,295,1.05,{bras:true})],
   ]},
  {id:'hoquet',titre:'Pistache a le hoquet',sous:'Une histoire qui fait des bulles',
@@ -295,7 +354,7 @@ const HISTOIRES=[
  {id:'dodo',titre:'Bonne nuit, Pistache',sous:'Pour s’endormir tout doux',
   couverture:()=>svg(fond('#26305C','#3C5A3A')+lune()+etoiles()+dragon(320,280,1.2,{yeux:'fermes'})),
   pages:[
-   ['Le soleil se couche derrière la colline. Le ciel devient tout orange.',()=>fond('#FFD9A8')+`<circle cx="520" cy="270" r="50" fill="#FF9F5A"/>`+dragon(250,285,1.3)],
+   ['Le soleil se couche derrière la colline. Le ciel devient tout orange.',()=>fond('#FFD9A8')+couchant(520)+dragon(250,285,1.3)],
    ['Puis le ciel devient bleu foncé. Pistache a joué toute la journée.',()=>fond('#3B4A86','#4C7A48')+lune()+dragon(300,285,1.3)],
    ['Il regarde la lune, toute ronde et toute douce.',()=>fond('#3B4A86','#4C7A48')+lune()+etoiles()+dragon(280,285,1.3)],
    ['Pistache compte les étoiles. Une, deux, trois, quatre, cinq…',()=>fond('#26305C','#3C5A3A')+lune()+etoiles()+dragon(280,285,1.3)],
@@ -372,7 +431,7 @@ let auto=false;
 
 function accueil(){
   stopAudio(); auto=false;
-  app.innerHTML=`<header class="tete">${svg(dragon(330,250,2.6)).replace('viewBox="0 0 640 400"','viewBox="140 30 420 340"')}
+  app.innerHTML=`<header class="tete"><svg viewBox="140 30 420 340" xmlns="http://www.w3.org/2000/svg" aria-hidden="true">${DEFS}${dragon(330,250,2.6)}</svg>
     <div><h1>Les histoires de Pistache</h1><p>Choisis une histoire !</p></div></header>
     <section class="etageres">${HISTOIRES.map(h=>`<button class="livre" data-id="${h.id}" id="livre-${h.id}">${h.couverture()}<span>${h.titre}<small>${h.sous}</small></span></button>`).join('')}</section>
     <p class="astuce">Dans les histoires, touche Pistache, Biscotte ou le chaton pour les entendre.</p>`;

diff --git a/sw.js b/sw.js
@@ -1,4 +1,4 @@
-const CACHE='pistache-v7';
+const CACHE='pistache-v8';
 const FICHIERS=['./','index.html','manifest.webmanifest','icons/icon-192.png','icons/icon-512.png','icons/apple-touch-icon.png','audio/chaton-0.mp3','audio/chaton-1.mp3','audio/chaton-2.mp3','audio/chaton-3.mp3','audio/chaton-4.mp3','audio/chaton-5.mp3','audio/chaton-6.mp3','audio/chaton-7.mp3','audio/chaton-8.mp3','audio/chaton-9.mp3','audio/dodo-0.mp3','audio/dodo-1.mp3','audio/dodo-2.mp3','audio/dodo-3.mp3','audio/dodo-4.mp3','audio/dodo-5.mp3','audio/dodo-6.mp3','audio/dodo-7.mp3','audio/dodo-8.mp3','audio/dodo-9.mp3','audio/dodo-fin.mp3','audio/fin.mp3','audio/gateau-0.mp3','audio/gateau-1.mp3','audio/gateau-2.mp3','audio/gateau-3.mp3','audio/gateau-4.mp3','audio/gateau-5.mp3','audio/gateau-6.mp3','audio/gateau-7.mp3','audio/gateau-8.mp3','audio/gateau-9.mp3','audio/hoquet-0.mp3','audio/hoquet-1.mp3','audio/hoquet-10.mp3','audio/hoquet-2.mp3','audio/hoquet-3.mp3','audio/hoquet-4.mp3','audio/hoquet-5.mp3','audio/hoquet-6.mp3','audio/hoquet-7.mp3','audio/hoquet-8.mp3','audio/hoquet-9.mp3','audio/lia-0.mp3','audio/lia-1.mp3','audio/lia-10.mp3','audio/lia-2.mp3','audio/lia-3.mp3','audio/lia-4.mp3','audio/lia-5.mp3','audio/lia-6.mp3','audio/lia-7.mp3','audio/lia-8.mp3','audio/lia-9.mp3','audio/noa-0.mp3','audio/noa-1.mp3','audio/noa-10.mp3','audio/noa-2.mp3','audio/noa-3.mp3','audio/noa-4.mp3','audio/noa-5.mp3','audio/noa-6.mp3','audio/noa-7.mp3','audio/noa-8.mp3','audio/noa-9.mp3','audio/noa-fin.mp3'];
 self.addEventListener('install',e=>{e.waitUntil(caches.open(CACHE).then(c=>c.addAll(FICHIERS)));self.skipWaiting();});
 self.addEventListener('activate',e=>{e.waitUntil(caches.keys().then(k=>Promise.all(k.filter(n=>n!==CACHE).map(n=>caches.delete(n)))));self.clients.claim();});
